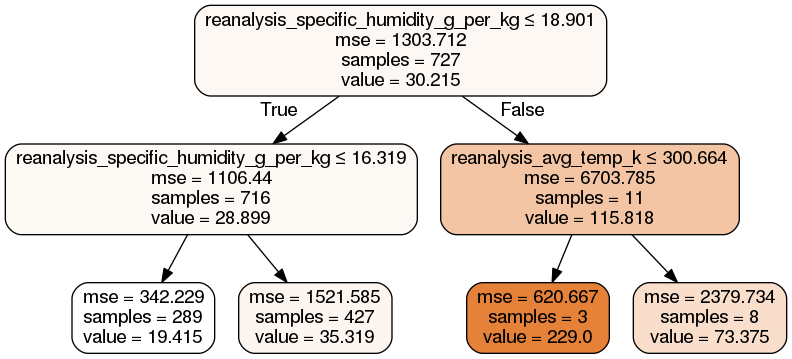
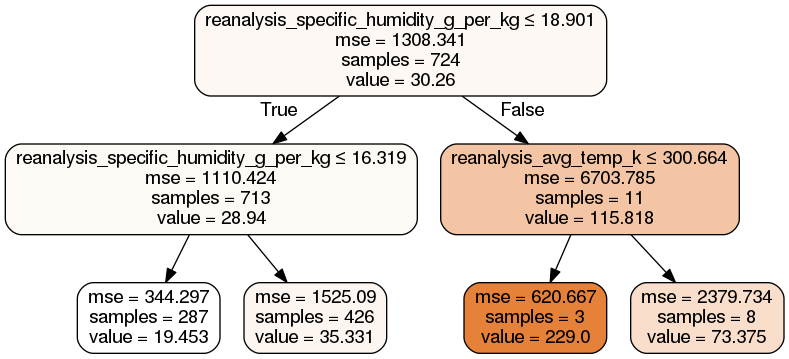
Task_05 (Rev. 3)
Improvements in the aoutmotic removal of outliers.
Other improvements.

diff --git a/task_05/clustering.py b/task_05/clustering.py
@@ -18,12 +18,13 @@ import pandas as pd
 """
 
 """
-def hierarchical_clustering(data, verbose = False):
+def hierarchical_clustering(data, cut = None, first_total = None, verbose = False):
     
     #Normalization Data
     no_nan_data = data.dropna(how = 'any')
     norm_data = norm.normalization_with_minmax(data)
-    #norm_dataIquitos = normalization_with_minmax(dataIquitos)
+    
+    
     
     estimator, X_pca = norm.pca(norm_data)
     #norm.pca_plots(estimator, X_pca, no_nan_data.index.values)
@@ -42,21 +43,38 @@ def hierarchical_clustering(data, verbose = False):
     criterions = ["inconsistent", "distance", "maxclust"]
     sel_crit = criterions[1]
 
-    cut = 3.7 # ad-hoc
+    #cut = 3.7 # ad-hoc
     
     clusters = cluster.hierarchy.linkage(matsim, method = selec_meth)
     # http://docs.scipy.org/doc/scipy-0.14.0/reference/generated/scipy.cluster.hierarchy.dendrogram.html
-    if verbose:
-        plt.figure(figsize = (10,10));
-        cluster.hierarchy.dendrogram(clusters, color_threshold = 7)
-        plt.title('%s color_threshold: %d' % (selec_meth, 7))
-        plt.show()
+    #if verbose:
+    plt.figure(figsize = (10,10));
+    dendrogram_data=cluster.hierarchy.dendrogram(clusters, color_threshold = 7)
     
-    labels = cluster.hierarchy.fcluster(clusters, cut , criterion = sel_crit)
+    flatten = lambda l: [item for sublist in l for item in sublist]
+    dendrogram_flat = flatten(dendrogram_data.get('dcoord'))
+    
+    if not cut:
+        cut = max(dendrogram_flat)
+        dendrogram_flat.remove(cut)
+        max_distance = cut - 0.1
+        
+    else:
+        max_distance = max(dendrogram_flat)-0.1
+    
+   
+    
+    plt.title('%s color_threshold: %d' % (selec_meth, 7))
+    plt.show()
+    
+    labels = cluster.hierarchy.fcluster(clusters, max_distance , criterion = sel_crit)
     
     #   4. plot
     numbers = no_nan_data.index.values
     n_total = len(numbers)
+    
+    if not first_total:
+        first_total = n_total
     
     if verbose:
         colors = np.array([x for x in 'bgrcmykbgrcmykbgrcmykbgrcmyk'])
@@ -70,7 +88,7 @@ def hierarchical_clustering(data, verbose = False):
         plt.ylim(min(X_pca[:,1]-0.2), max(X_pca[:,1])+0.2)
         ax.grid(True)
         fig.tight_layout()
-        plt.title('Method: %s, Cut: %d, Criterion: %s' % (selec_meth, cut, sel_crit))
+        plt.title('Method: %s, Cut: %5.2f, Criterion: %s' % (selec_meth, max_distance, sel_crit))
         plt.show()
     
     # 5. characterization
@@ -78,9 +96,12 @@ def hierarchical_clustering(data, verbose = False):
     if verbose:
         print('Estimated number of clusters: %d' % n_clusters_)
     
-    
+    #print 'cut: %.2f' % cut
     groups = {}
     outliers = []
+    cut_percent = cut *(1 - avSim +0.2)
+    max_cut = cut - cut_percent
+    
     for c in range(1, n_clusters_+1):
         
         elements = []
@@ -92,29 +113,43 @@ def hierarchical_clustering(data, verbose = False):
         groups[c] = elements
         
         n_elements = len(elements)
-        percent = (float(n_elements)/float(n_total))*100.0
+        percent = (float(n_elements+(first_total-n_total))/float(n_total))*100.0
         
-        if (percent<=2.0):
+        if (percent <= 2.0 and max_cut <= max_distance):
             outliers.append(elements)
-        elif (percent <= 10.0):
+            del groups[c]
+            
+            if verbose:
+                print 'Para eliminar 2%: \t'
+                print elements
+        
+        elif (percent <= 10.0 and max_cut <= max_distance):
             
             df = pd.DataFrame(data, index = elements)
             
-            sub_elements, sub_outliers = hierarchical_clustering(df)
-            if sub_outliers != None:
-                outliers.append(sub_outliers)
-            elements = sub_elements
-            n_elements = len(elements)
-        
-        if verbose:
-            print '\nGroup %2d, length: %d, total %d, percent %5.2f ' % (c, n_elements, n_total, percent)
-        
-        
-    if (len(outliers) == 0):
-        outliers = None
-    
-    return groups, outliers
+            sub_elements, sub_outliers, cut = hierarchical_clustering(df, 
+                                                        cut = cut,
+                                                        first_total = first_total,
+                                                        verbose = False)
 
+            if verbose and sub_outliers:
+                print 'Para eliminar 10%: \t'
+                print sub_outliers
+            
+            if sub_outliers:
+                outliers.append(sub_outliers)
+            else:
+                outliers = None
+                    
+    flatten = lambda l: [item for sublist in l for item in sublist]
+    
+    if outliers:
+        final_outliers = flatten(outliers)
+    else:
+        final_outliers = None
+        
+    return groups, final_outliers, cut
+    
 """
 
 """
@@ -260,7 +295,7 @@ def kMeans_clustering(data, verbose = False):
         
         if verbose:
             print '\nGroup %2d, length: %d, total %d, percent %5.2f ' % (c, n_elements, n_total, percent)
-        
+    
     if (len(outliers) == 0):
         outliers = None
     

diff --git a/task_05/task_05.py b/task_05/task_05.py
@@ -11,6 +11,18 @@ import regressor as reg
 import clustering
 import pandas as pd
 
+
+def count_elements(elements):
+    total = 0
+    if type(elements)==list:
+        total=len(elements)
+        
+    elif type(elements)==dict:
+        for key, value in elements.iteritems():
+            total += len(value)
+    
+    return total
+
 def main():
     
     years = None
@@ -36,32 +48,47 @@ def main():
         
         
         # Adapt data for clustering
-        data_for_cluster = data.drop(labels = ['city', 'year'], axis = 1, inplace = False)        
-        data_test_hiech = data_for_cluster
+        data_test_hiech = data.drop(labels = ['city', 'year'], axis = 1, inplace = False)        
         
         # Outliers will be deleted
-        elements, outliers = clustering.hierarchical_clustering(data_test_hiech)
-        print '\nOutliers in: ' + city   
-        while (outliers != None):
-            print 'Auto-detected Outliers: \n\t' + str(outliers)
-            outliers_list = outliers[0]
-            for i in range(1, len(outliers)):
-                outliers_list += outliers[i]
-            
-            data_test_hiech.drop(outliers_list, axis = 0, inplace = True)
-            elements, outliers = clustering.hierarchical_clustering(data_test_hiech)
+        elements, outliers, cut = clustering.hierarchical_clustering(data = data_test_hiech,
+                                                            verbose = True)
+        n_element= count_elements(elements)
+        n_outliers = count_elements(outliers)        
+        total=n_element + n_outliers
         
+        print '\nOutliers in: %s \n\t' % (city)
+        
+
+
+        total_outliers = []
+        while (outliers != None):  
+            total_outliers += outliers
+            data_test_hiech.drop(outliers, axis = 0, inplace = True)
+            elements, outliers, cut = clustering.hierarchical_clustering(data_test_hiech,
+                                                                cut = cut,
+                                                                first_total = total, 
+                                                                verbose = True)
+        
+        if total_outliers:
+            print 'Auto-detected Outliers:'
+            print total_outliers
         
         # Join data
-        merge_data = pd.merge(data, data_labels, on = ['city', 'year', 'weekofyear'], how = 'outer')
+        data_without_outliers = data
+        data_without_outliers.drop(total_outliers, axis = 0, inplace = True)
+        
+        merge_data = pd.merge(data_without_outliers, data_labels, on = ['city', 'year', 'weekofyear'], how = 'outer')
         merge_data.drop(labels = ['city', 'year'], axis = 1, inplace = True)
-        merge_data.dropna(inplace=True)
+        merge_data.dropna(inplace = True)
+        
+        clustering.hierarchical_clustering_features(merge_data, verbose = True)
         
         # Croos Validation for select features
-        feature_selected, max_deph = cros.cross_validation(merge_data, verbose = False)
+        feature_selected, max_deph = cros.cross_validation(merge_data, verbose = True)
         
         # Regressor for select relevant features
-        relevant_features = reg.tree_regressor(merge_data, max_deph, feature_selected, 'total_cases', city, False)
+        relevant_features = reg.tree_regressor(merge_data, max_deph, feature_selected, 'total_cases', city, verbose = True)
         
         all_revelant_features[city] = relevant_features
     

diff --git a/task_05/regressor.py b/task_05/regressor.py
@@ -26,13 +26,13 @@ def tree_regressor(data, max_depth, features_selected, feature_regression, city,
     #3.3.  Model Visualization
     
     dot_data = export_graphviz(regressor, out_file=None, 
-                               feature_names = features_selected,
-                               filled=True, rounded=True,  
+                               feature_names = features_selected, 
+                               filled=True, rounded=True, 
                                special_characters=True)  
     
-    #graph = graphviz.Source(dot_data, format = 'png')   
-    #graph.render('decision_tree_mse_'+city, 'images', cleanup= True) 
-    #graph 
+    graph = graphviz.Source(dot_data, format = 'png')   
+    graph.render('decision_tree_mse_'+city, 'images', cleanup= True) 
+    graph 
     
 
     # 3.4 Feature Relevances
